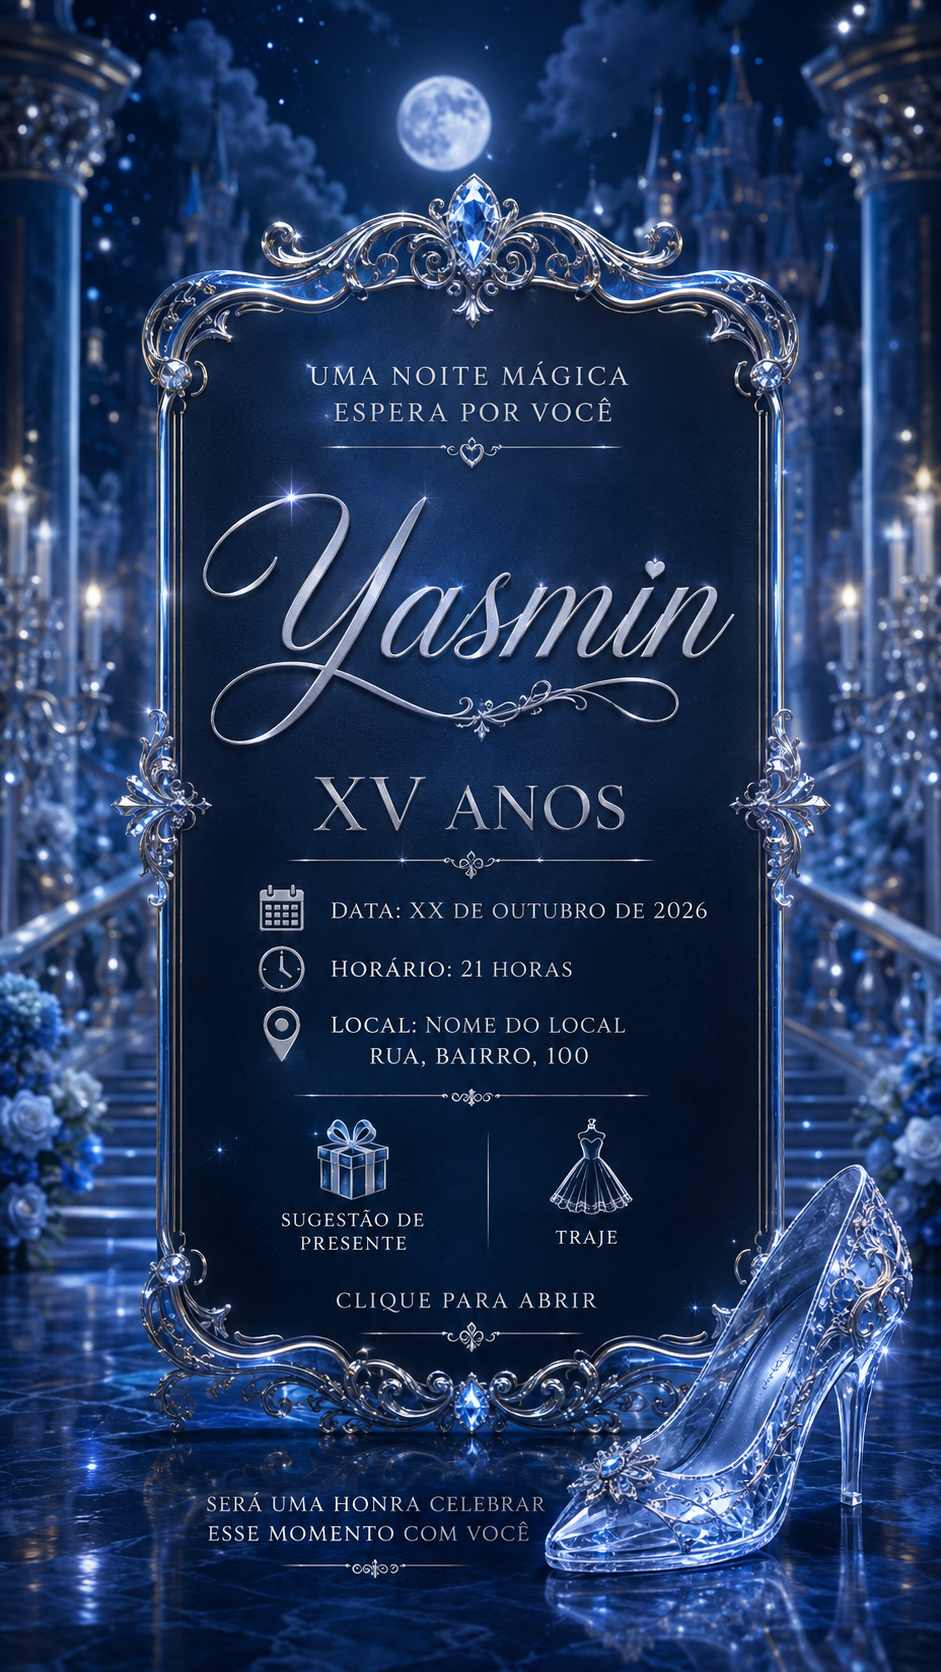
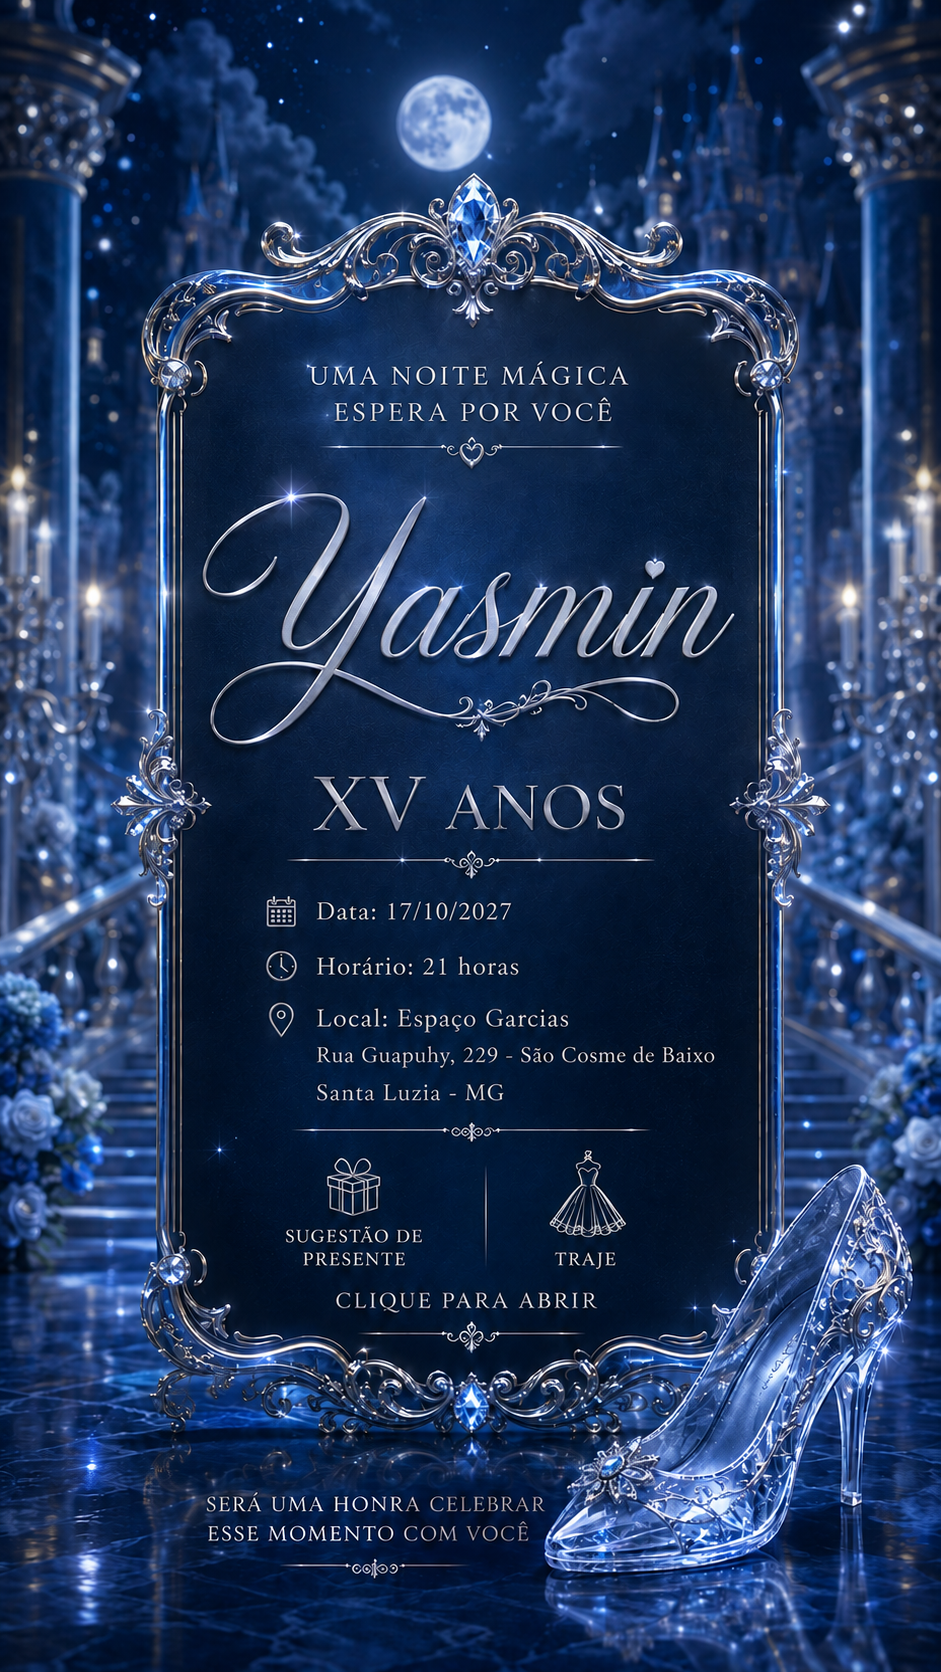
Replace final invitation image

diff --git a/styles.css b/styles.css
@@ -174,35 +174,35 @@ a {
 
 .hotspot-date {
   left: 23%;
-  top: 53.2%;
+  top: 53%;
   width: 55%;
   height: 4.7%;
 }
 
 .hotspot-time {
   left: 23%;
-  top: 58%;
+  top: 57.3%;
   width: 55%;
   height: 4.7%;
 }
 
 .hotspot-place {
-  left: 20%;
-  top: 62.8%;
-  width: 63%;
-  height: 6.7%;
+  left: 18%;
+  top: 61.6%;
+  width: 66%;
+  height: 8.2%;
 }
 
 .hotspot-gift {
   left: 25%;
-  top: 70.4%;
+  top: 70.7%;
   width: 23%;
   height: 8.8%;
 }
 
 .hotspot-dress {
   left: 56%;
-  top: 70.4%;
+  top: 70.7%;
   width: 22%;
   height: 8.8%;
 }
